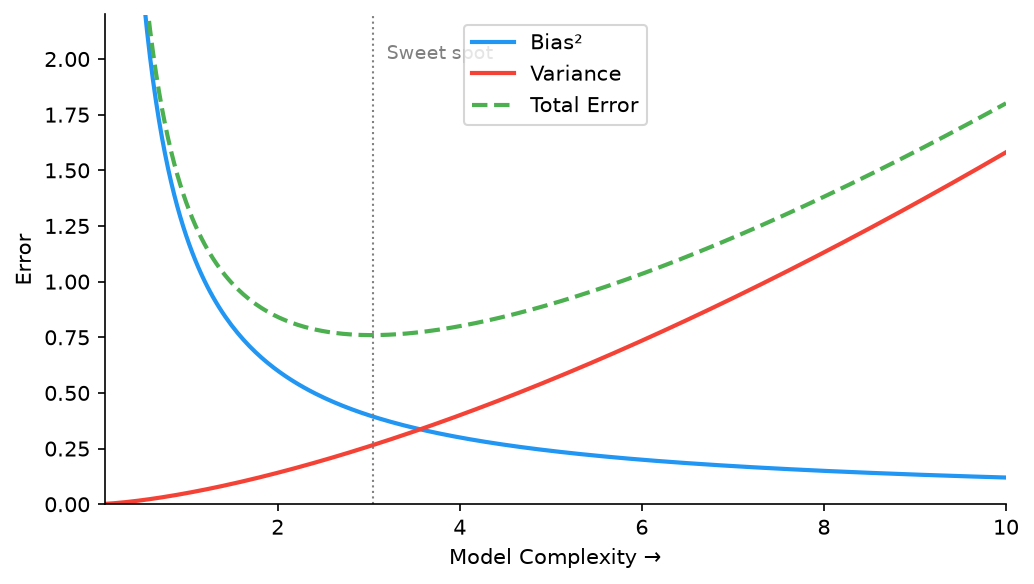
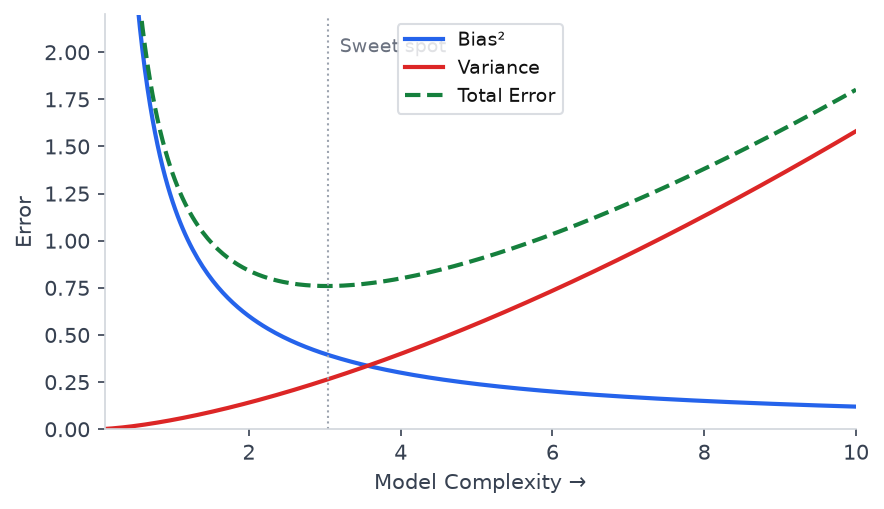
update note 07: convert all diagrams to light theme

diff --git a/notes/scripts/plot_dataset_split.py b/notes/scripts/plot_dataset_split.py
@@ -2,19 +2,19 @@ import matplotlib.pyplot as plt
 import matplotlib.patches as mpatches
 import os
 
-fig, ax = plt.subplots(figsize=(10, 3.5))
-fig.patch.set_facecolor('#0d1117')
-ax.set_facecolor('#0d1117')
+fig, ax = plt.subplots(figsize=(9, 3))
+fig.patch.set_facecolor('white')
+ax.set_facecolor('white')
 
 total_w = 8.0
 x0 = 1.0
 y0 = 1.5
-h = 1.0
+h  = 1.0
 
 splits = [
-    ('Training Set\n(60–80%)', 0.70, '#1a3a1a', '#3fb950'),
-    ('Validation Set\n(10–20%)', 0.15, '#3a2a1a', '#f0883e'),
-    ('Test Set\n(10–20%)', 0.15, '#1a1a3a', '#388bfd'),
+    ('Training Set\n(60–80%)',      0.70, '#dcfce7', '#15803d'),
+    ('Validation Set\n(10–20%)',    0.15, '#ffedd5', '#ea580c'),
+    ('Test Set\n(10–20%)',          0.15, '#dbeafe', '#2563eb'),
 ]
 
 x = x0
@@ -25,23 +25,21 @@ for label, frac, fc, ec in splits:
                                     facecolor=fc, edgecolor=ec, linewidth=2, zorder=3)
     ax.add_patch(rect)
     ax.text(x + w / 2, y0 + h / 2, label, ha='center', va='center',
-            color='#e6edf3', fontsize=10, fontweight='bold', zorder=4)
+            color='#111111', fontsize=10, fontweight='bold', zorder=4)
     x += w
 
-# Outer border for full dataset
 outer = mpatches.FancyBboxPatch((x0, y0), total_w, h,
                                  boxstyle='square,pad=0',
-                                 facecolor='none', edgecolor='#8b949e',
+                                 facecolor='none', edgecolor='#9ca3af',
                                  linewidth=2, zorder=5)
 ax.add_patch(outer)
 ax.text(x0 + total_w / 2, y0 + h + 0.3, 'Full Dataset',
-        ha='center', va='bottom', color='#8b949e', fontsize=11, fontweight='bold')
+        ha='center', va='bottom', color='#374151', fontsize=11, fontweight='bold')
 
-# Annotations below
 annotations = [
-    (x0 + total_w * 0.35, y0 - 0.25, 'Update weights\n(gradient descent)', '#3fb950'),
-    (x0 + total_w * 0.775, y0 - 0.25, 'Guide decisions\n(hyperparameters, early stop)', '#f0883e'),
-    (x0 + total_w * 0.925, y0 - 0.25, 'Final evaluation\n(used once)', '#388bfd'),
+    (x0 + total_w * 0.35,  y0 - 0.25, 'Update weights\n(gradient descent)',              '#15803d'),
+    (x0 + total_w * 0.775, y0 - 0.25, 'Guide decisions\n(hyperparameters, early stop)',  '#ea580c'),
+    (x0 + total_w * 0.925, y0 - 0.25, 'Final evaluation\n(used once)',                   '#2563eb'),
 ]
 for x, y, note, color in annotations:
     ax.text(x, y, note, ha='center', va='top', color=color, fontsize=8)
@@ -49,9 +47,9 @@ for x, y, note, color in annotations:
 ax.set_xlim(0.5, 9.5)
 ax.set_ylim(0.3, 3.2)
 ax.axis('off')
-ax.set_title('Dataset Split: Training / Validation / Test', color='#e6edf3', fontsize=12, pad=10)
+ax.set_title('Dataset Split: Training / Validation / Test', color='#111111', fontsize=12, pad=10)
 
 plt.tight_layout()
 out = os.path.join(os.path.dirname(__file__), '..', 'images', 'dataset_split.png')
-plt.savefig(out, dpi=150, bbox_inches='tight', facecolor=fig.get_facecolor())
+plt.savefig(out, dpi=150, bbox_inches='tight', facecolor='white', edgecolor='none')
 plt.close()

diff --git a/notes/scripts/plot_early_stopping.py b/notes/scripts/plot_early_stopping.py
@@ -3,28 +3,32 @@ import numpy as np
 import matplotlib.pyplot as plt
 
 epochs = np.arange(1, 61)
-
-train = 0.9 * np.exp(-epochs / 18) + 0.05
-val   = 0.9 * np.exp(-epochs / 40) + 0.05 + np.maximum(0, (epochs - 20) * 0.012)
+train  = 0.9 * np.exp(-epochs / 18) + 0.05
+val    = 0.9 * np.exp(-epochs / 40) + 0.05 + np.maximum(0, (epochs - 20) * 0.012)
 
 best_epoch = epochs[np.argmin(val)]
 
-fig, ax = plt.subplots(figsize=(7, 4))
+fig, ax = plt.subplots(figsize=(6, 3.5))
+fig.patch.set_facecolor('white')
+ax.set_facecolor('white')
 
-ax.plot(epochs, train, color="#2196F3", linewidth=2, label="Training loss")
-ax.plot(epochs, val,   color="#F44336", linewidth=2, linestyle="--", label="Validation loss")
-ax.axvline(best_epoch, color="gray", linewidth=1.5, linestyle=":")
-ax.text(best_epoch + 0.8, 0.72, "Stop here\n(best validation loss)", fontsize=9, color="gray")
+ax.plot(epochs, train, color='#2563eb', linewidth=2, label='Training loss')
+ax.plot(epochs, val,   color='#dc2626', linewidth=2, linestyle='--', label='Validation loss')
+ax.axvline(best_epoch, color='#9ca3af', linewidth=1.5, linestyle=':')
+ax.text(best_epoch + 0.8, 0.72, 'Stop here\n(best validation loss)',
+        fontsize=9, color='#6b7280')
 
-ax.set_xlabel("Epochs")
-ax.set_ylabel("Loss")
+ax.set_xlabel('Epochs', color='#374151')
+ax.set_ylabel('Loss', color='#374151')
 ax.set_ylim(0, 0.9)
-ax.legend(fontsize=10)
-ax.spines["top"].set_visible(False)
-ax.spines["right"].set_visible(False)
+ax.tick_params(colors='#374151')
+for spine in ax.spines.values():
+    spine.set_edgecolor('#d1d5db')
+ax.spines['top'].set_visible(False)
+ax.spines['right'].set_visible(False)
+ax.legend(fontsize=9, facecolor='white', edgecolor='#d1d5db', labelcolor='#111111')
 
 plt.tight_layout()
-
-out = os.path.join(os.path.dirname(__file__), "..", "images", "early_stopping.png")
-plt.savefig(out, dpi=150, bbox_inches="tight")
-print("saved:", os.path.abspath(out))
+out = os.path.join(os.path.dirname(__file__), '..', 'images', 'early_stopping.png')
+plt.savefig(out, dpi=150, bbox_inches='tight', facecolor='white', edgecolor='none')
+print('saved:', os.path.abspath(out))

diff --git a/notes/scripts/plot_bias_variance_tradeoff.py b/notes/scripts/plot_bias_variance_tradeoff.py
@@ -6,28 +6,31 @@ x = np.linspace(0.1, 10, 300)
 
 bias2    = 1.2 / x
 variance = 0.05 * x ** 1.5
-total    = bias2 + variance + 0.1   # 0.1 = irreducible noise
-
+total    = bias2 + variance + 0.1
 optimal  = x[np.argmin(total)]
 
-fig, ax = plt.subplots(figsize=(7, 4))
+fig, ax = plt.subplots(figsize=(6, 3.5))
+fig.patch.set_facecolor('white')
+ax.set_facecolor('white')
 
-ax.plot(x, bias2,    color="#2196F3", linewidth=2, label="Bias²")
-ax.plot(x, variance, color="#F44336", linewidth=2, label="Variance")
-ax.plot(x, total,    color="#4CAF50", linewidth=2, linestyle="--", label="Total Error")
-ax.set_xlabel("Model Complexity →")
-ax.set_ylabel("Error")
+ax.plot(x, bias2,    color='#2563eb', linewidth=2, label='Bias²')
+ax.plot(x, variance, color='#dc2626', linewidth=2, label='Variance')
+ax.plot(x, total,    color='#15803d', linewidth=2, linestyle='--', label='Total Error')
+ax.set_xlabel('Model Complexity →', color='#374151')
+ax.set_ylabel('Error', color='#374151')
 ax.set_xlim(0.1, 10)
 ax.set_ylim(0, 2.2)
+ax.tick_params(colors='#374151')
+for spine in ax.spines.values():
+    spine.set_edgecolor('#d1d5db')
+ax.spines['top'].set_visible(False)
+ax.spines['right'].set_visible(False)
 
-ax.axvline(optimal, color="gray", linewidth=1, linestyle=":")
-ax.text(optimal + 0.15, 2.0, "Sweet spot", fontsize=9, color="gray")
-ax.legend(fontsize=10)
-ax.spines["top"].set_visible(False)
-ax.spines["right"].set_visible(False)
+ax.axvline(optimal, color='#9ca3af', linewidth=1, linestyle=':')
+ax.text(optimal + 0.15, 2.0, 'Sweet spot', fontsize=9, color='#6b7280')
+ax.legend(fontsize=9, facecolor='white', edgecolor='#d1d5db', labelcolor='#111111')
 
 plt.tight_layout()
-
-out = os.path.join(os.path.dirname(__file__), "..", "images", "bias_variance_tradeoff.png")
-plt.savefig(out, dpi=150, bbox_inches="tight")
-print("saved:", os.path.abspath(out))
+out = os.path.join(os.path.dirname(__file__), '..', 'images', 'bias_variance_tradeoff.png')
+plt.savefig(out, dpi=150, bbox_inches='tight', facecolor='white', edgecolor='none')
+print('saved:', os.path.abspath(out))
